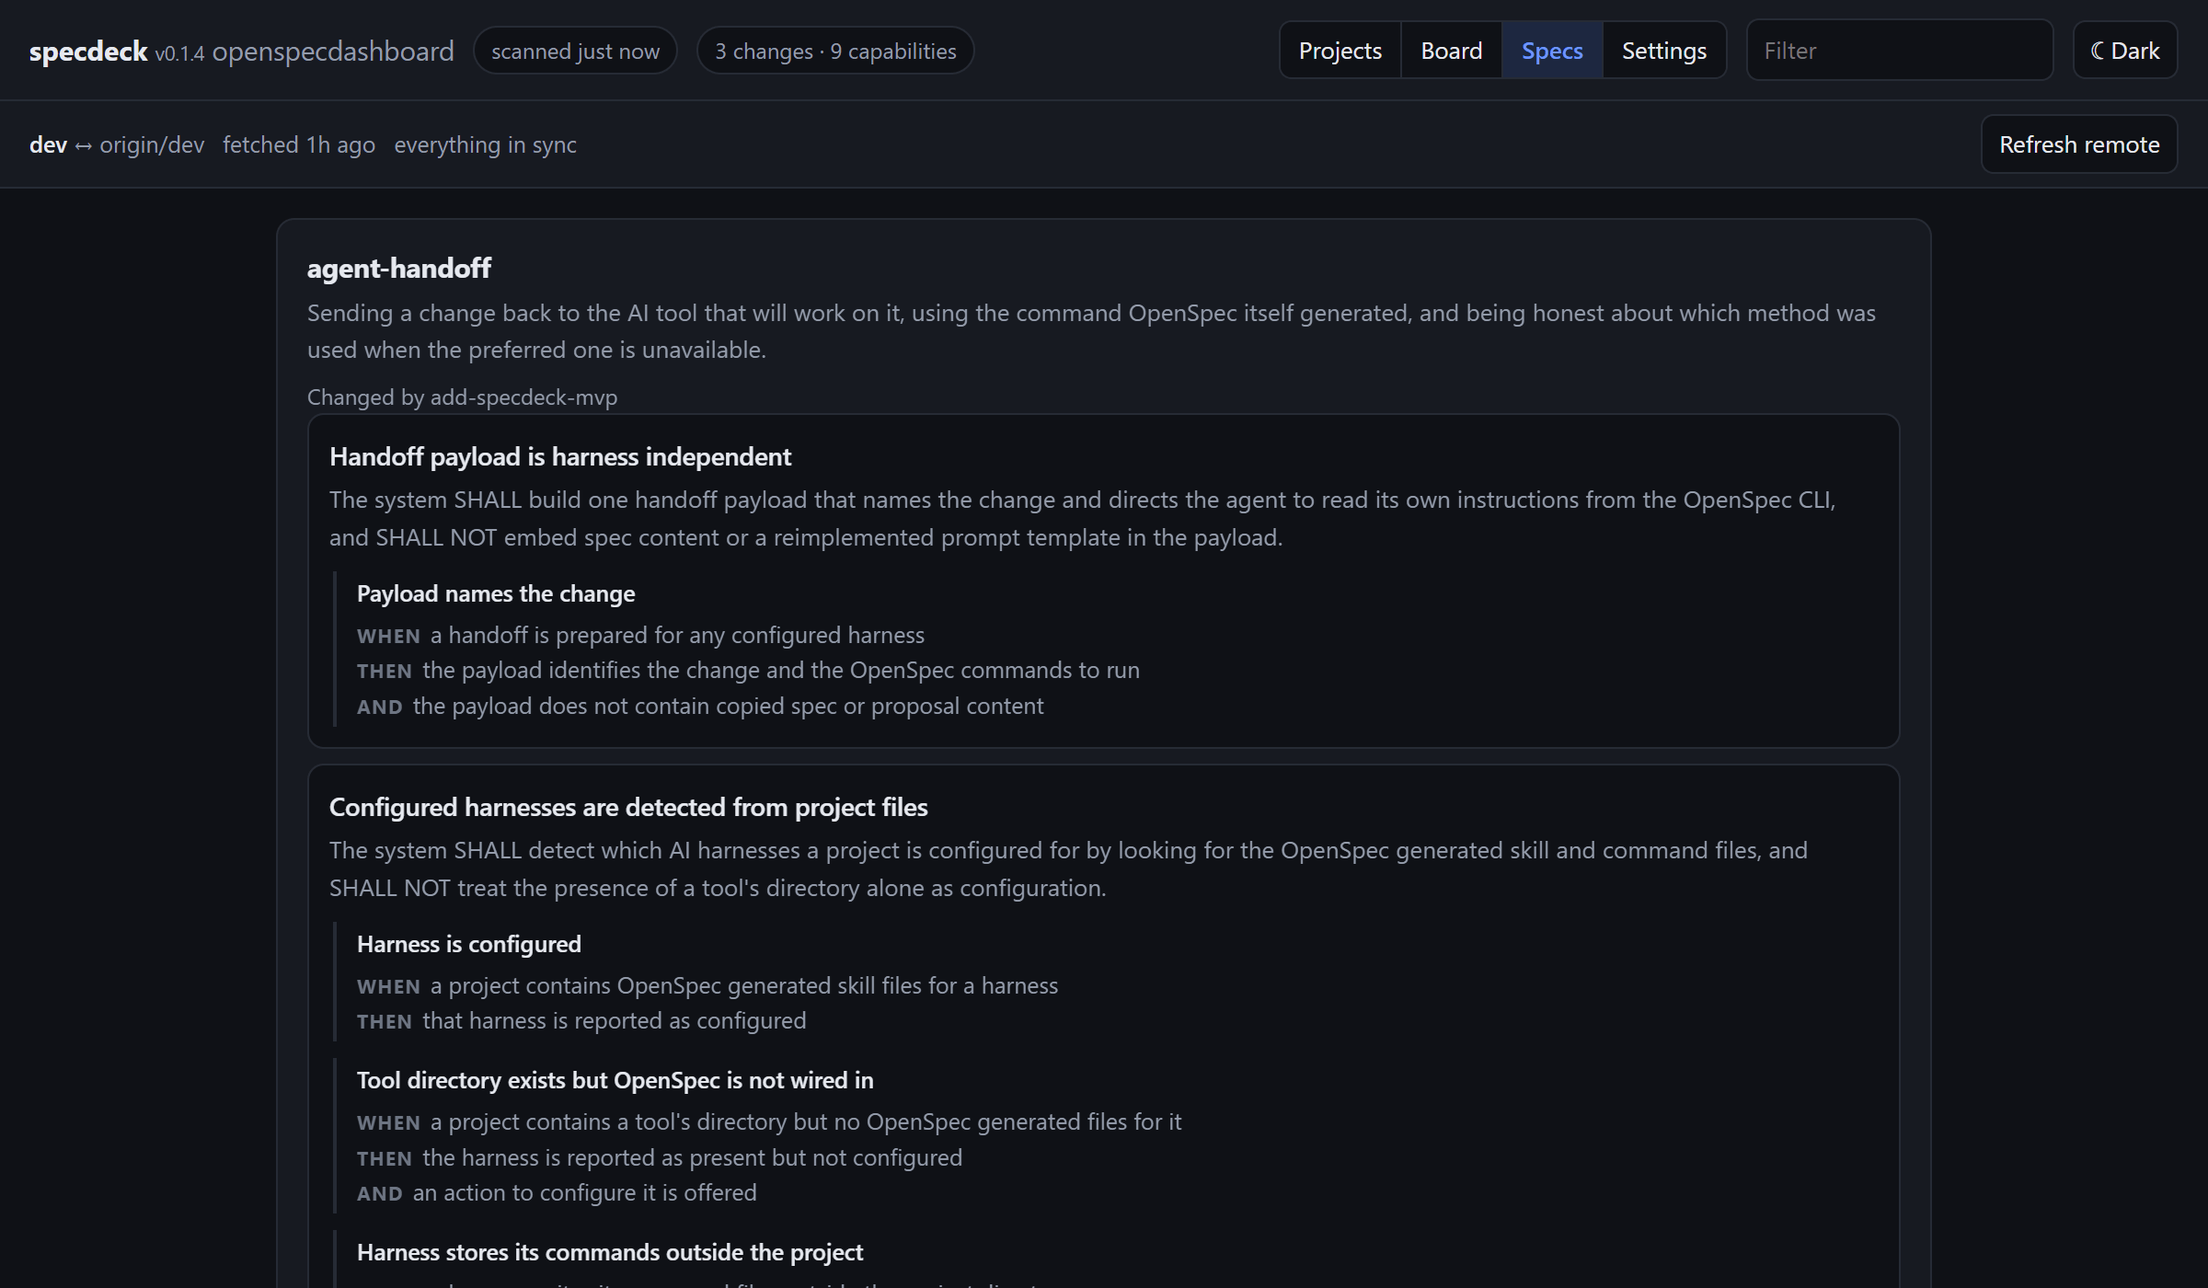
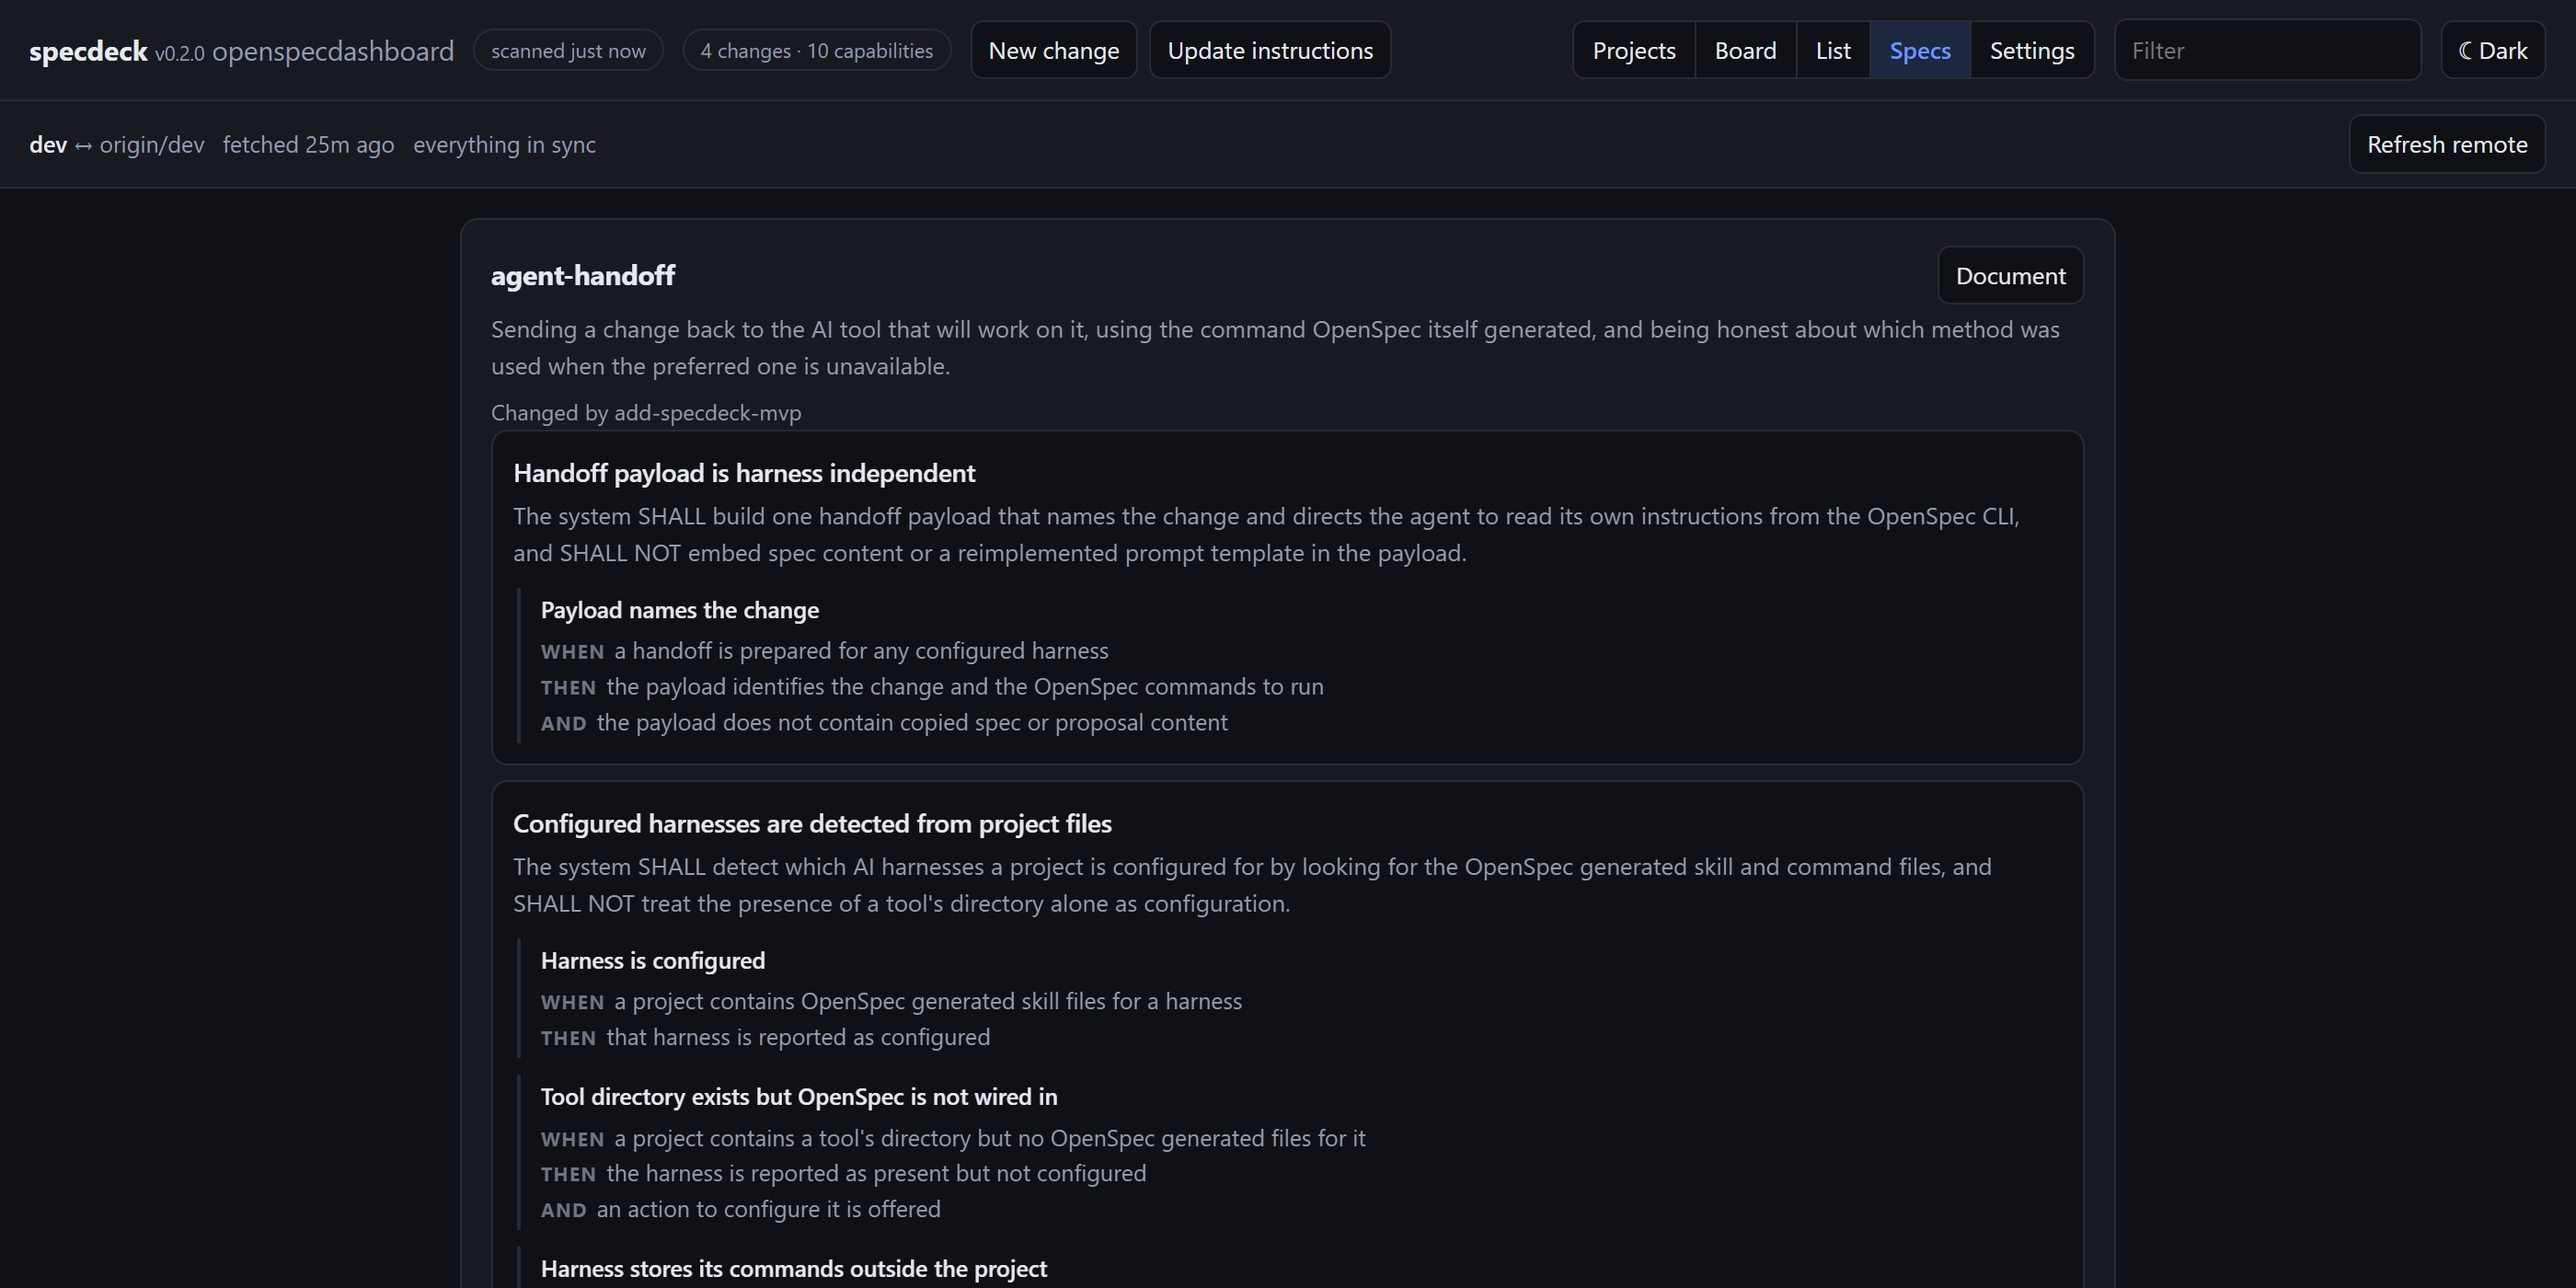
Show the review surfaces, and stop publishing whoever took the picture
The README described reading, editing, and approving without showing any of it,
and the images it did have predated the header, the list view, and everything
else this branch moved.

Four new shots: the artifact reader, the editor across the page with the change
still readable beside it, approval with one change signed off and another
lapsed after a later edit, and the cross-root list. The demo now records two
approvals so those two states can sit side by side, which is the only way that
feature reads.

The projects view is captured against a generated registry rather than the one
in your home directory. It had been publishing whoever ran the capture: their
username, the real names of their projects, and a Claude scratch path that
happened to be registered. SPECDECK_CONFIG_DIR now points at an invented
registry, which also makes the image identical for every contributor.

Bundling had broken the capture harness, which reached the client through
globals that now live inside a closure. Rather than leak the internals back
out, the client names what automation may touch on window.specdeck, so renaming
an internal variable cannot quietly break the README.

The header wrapped to a second row at 1200px once it gained the project
actions, which is the stacking this branch set out to remove. Shortened the
label and gave the two narrow shots room.

diff --git a/src/client/app.js b/src/client/app.js
@@ -1,4 +1,9 @@
-import { renderArtifactsTab, closeArtifactEditor, hasUnsavedEdit } from './artifacts.js';
+import {
+  renderArtifactsTab,
+  closeArtifactEditor,
+  hasUnsavedEdit,
+  resetEditing,
+} from './artifacts.js';
 import {
   COLUMNS,
   applyFilters,
@@ -3469,7 +3474,7 @@ function renderProjectActions() {
   };
   bar.appendChild(make);
 
-  var upd = el('button', 'icon', 'Update instruction files');
+  var upd = el('button', 'icon', 'Update instructions');
   upd.title =
     'Runs openspec update. This also rewrites OpenSpec’s own global configuration, which it infers from this project.';
   upd.onclick = function () {
@@ -3913,6 +3918,51 @@ document.addEventListener('keydown', function (e) {
 
 applyTheme(currentTheme());
 var events = new EventSource('/api/events');
+/**
+ * The surface the screenshot harness drives the interface through.
+ *
+ * The client used to be one script in the page, so `scripts/capture/` could
+ * reach `state`, `selected`, and `openPanel` as globals. Bundling put all of
+ * that inside a closure, which is the point of bundling. Rather than leak the
+ * internals back out, the few things automation genuinely needs are named here,
+ * so renaming a variable cannot silently break the screenshots.
+ */
+export const automation = {
+  /** Read-only view of what the board is currently showing. */
+  read() {
+    return { state: state, view: view, selected: selected, approvals: approvals };
+  },
+  switchView: function (next) {
+    switchView(next);
+  },
+  /** Forces a theme, so each shot can be taken in both. */
+  applyTheme: function (name) {
+    applyTheme(name);
+  },
+  loadApprovals: function () {
+    return loadApprovals();
+  },
+  /** Opens a change's detail panel on a given tab. */
+  openChange: function (name, tab) {
+    if (!state || !state.project.ok) return false;
+    var target = state.project.snapshot.changes.filter(function (c) {
+      return c.name === name;
+    })[0];
+    if (!target) return false;
+    if (tab) activeTab[target.name] = tab;
+    selected = target.name;
+    openPanel(target);
+    return true;
+  },
+  /** Clears whatever the previous shot left open, editing included. */
+  clear: function () {
+    resetEditing();
+    selected = null;
+    document.getElementById('panel').innerHTML = '';
+    document.getElementById('editor').innerHTML = '';
+  },
+};
+
 /**
  * Starts the client.
  *

diff --git a/src/client/index.js b/src/client/index.js
@@ -1,17 +1,22 @@
 import { renderMarkdown } from './markdown.js';
 import { createEditor } from './editor.js';
-import { boot } from './app.js';
+import { automation, boot } from './app.js';
 
 /**
  * The client entry point.
  *
- * The view code in `app.js` is a flat imperative script that shares everything
- * through the module scope it was written in. Rather than rewrite that to take
- * injected dependencies, the pieces that came from real libraries are hung on
- * one namespace it can reach. The alternative, importing them into `app.js`
- * directly, is fine too and is how new code should do it; this exists so the
- * split did not have to touch 1,500 lines that were working.
+ * `window.specdeck` carries two unrelated things, both deliberately:
+ *
+ * - The pieces that came from real libraries, so the flat imperative view code
+ *   in `app.js` can reach them without being rewritten to take injected
+ *   dependencies. Importing them into `app.js` directly is fine too and is how
+ *   new code should do it; this exists so the split did not have to touch 1,500
+ *   lines that were working.
+ * - The automation surface `scripts/capture/` drives the screenshots through.
+ *   The client is bundled, so its internals live in a closure and are no longer
+ *   reachable as globals. Naming what automation may touch means renaming an
+ *   internal variable cannot silently break the images in the README.
  */
-window.specdeck = { renderMarkdown, createEditor };
+window.specdeck = { renderMarkdown, createEditor, ...automation };
 
 boot();

diff --git a/src/core/read/no-writes.test.ts b/src/core/read/no-writes.test.ts
@@ -52,11 +52,21 @@ interface Snapshot {
   [relativePath: string]: string;
 }
 
-/** Records every file's path, size, and modification time. */
+/**
+ * Records every file's path, size, and modification time.
+ *
+ * `.git` is deliberately not walked. The promise being asserted is about the
+ * working tree: the files a user wrote and can see. Git maintains its own index
+ * and caches as a side effect of being asked read-only questions, and `git
+ * status` refreshing `.git/index` is git's bookkeeping rather than specdeck
+ * writing into somebody's project. Counting it made this test fail on whichever
+ * runner happened to be slow enough to catch a lock file mid-write.
+ */
 function snapshotTree(root: string): Snapshot {
   const seen: Snapshot = {};
   (function walk(dir: string): void {
     for (const entry of readdirSync(dir, { withFileTypes: true })) {
+      if (entry.name === '.git') continue;
       const full = join(dir, entry.name);
       if (entry.isDirectory()) {
         walk(full);

diff --git a/src/client/artifacts.js b/src/client/artifacts.js
@@ -37,6 +37,21 @@ export function hasUnsavedEdit(changeName) {
 }
 
 /**
+ * Forgets every open edit, discarding whatever was in them.
+ *
+ * Only for the screenshot harness, which takes each shot twice and needs the
+ * second pass to start from the same place as the first. Nothing in the
+ * interface calls this: discarding a user's text without asking is exactly what
+ * the rest of this module exists to prevent.
+ */
+export function resetEditing() {
+  for (const name of Object.keys(editing)) delete editing[name];
+  for (const name of Object.keys(drafts)) delete drafts[name];
+  for (const name of Object.keys(conflicts)) delete conflicts[name];
+  closeArtifactEditor();
+}
+
+/**
  * Renders the Files tab into `body`.
  *
  * `deps` supplies el, esc, toast, renderMarkdown, createEditor, and reopen,

diff --git a/README.md b/README.md
@@ -89,16 +89,33 @@ since the board read it, the write is refused rather than clobbering its work.
 
 ### Read every artifact, and edit it in place
 
+<picture>
+  <source media="(prefers-color-scheme: dark)" srcset="docs/media/change-files-dark.png">
+  <img alt="The detail panel showing a change's files, with the proposal rendered as a document beside the list of artifacts" src="docs/media/change-files-light.png">
+</picture>
+
 Whatever artifacts your workflow schema declares, whether that is proposal, design, specs,
 and tasks or something your own schema invented, rendered as markdown with the exact source
 one click away. Accumulated capability specs read the same way.
 
-Editing opens a real editor over the page, and saves straight back to the file. If an agent
-rewrote it while you were typing, the save is refused rather than merged, your text is kept,
-and moving past the conflict is a button you press knowingly. `openspec validate` runs on
-save and reports against the change.
+Editing takes the page rather than a column, so the file you are changing is readable while
+you change it, and saves straight back to disk.
+
+<picture>
+  <source media="(prefers-color-scheme: dark)" srcset="docs/media/editor-dark.png">
+  <img alt="The markdown editor open across the page, with the rendered change still visible in the panel on the right" src="docs/media/editor-light.png">
+</picture>
+
+If an agent rewrote the file while you were typing, the save is refused rather than merged,
+your text is kept, and moving past the conflict is a button you press knowingly.
+`openspec validate` runs on save and reports against the change.
 
 ### Approve a change, and have it mean something
+
+<picture>
+  <source media="(prefers-color-scheme: dark)" srcset="docs/media/approval-dark.png">
+  <img alt="A board with one change marked approved and another marked needs review, and the panel showing who approved it and the commit that records it" src="docs/media/approval-light.png">
+</picture>
 
 Approving records a commit carrying an `Approved-by:` trailer. The state is then read back
 out of git, so it survives a clone and appears for a teammate the moment they pull. Edit any
@@ -109,6 +126,11 @@ Approving commits only that change's directory, and leaves anything you had stag
 as you left it.
 
 ### A list, when the board is the wrong shape
+
+<picture>
+  <source media="(prefers-color-scheme: dark)" srcset="docs/media/list-dark.png">
+  <img alt="A sortable table of changes drawn from three different projects, with lane, task progress, approval state and dates" src="docs/media/list-light.png">
+</picture>
 
 Every change across every root you have registered, sortable by name, lane, task progress,
 approval, creation date, and last activity, and filterable by lane, root, initiative, and

diff --git a/CONTRIBUTING.md b/CONTRIBUTING.md
@@ -140,16 +140,38 @@ The images in the README are generated rather than captured by hand, so an inter
 does not quietly leave them wrong:
 
 ```bash
+npm run build
 node scripts/capture/demo.mjs ../specdeck-demo
+node scripts/capture/registry.mjs ../specdeck-demo ../specdeck-demo/.specdeck-config
+
+export SPECDECK_CONFIG_DIR=../specdeck-demo/.specdeck-config
 node dist/cli/index.js ../specdeck-demo/orbit --port 7788 --no-open
+
 node scripts/capture/shots.mjs http://127.0.0.1:7788 docs/media
 node scripts/capture/live.mjs http://127.0.0.1:7788 ../specdeck-demo/orbit docs/media/live-update.gif
+```
+
+`SPECDECK_CONFIG_DIR` is not optional. The projects view reads specdeck's own registry, so
+capturing against your real one publishes your username, the names of your projects, and
+wherever they sit on disk. Pointing it at the generated registry keeps the image the same
+for everybody and free of whoever ran it.
+
+The self-specs image is the specs view captured against this repository rather than the
+demo, which is what the last two arguments are for:
+
+```bash
+node dist/cli/index.js . --port 7789 --no-open
+node scripts/capture/shots.mjs http://127.0.0.1:7789 docs/media specs self-specs
 ```
 
 The demo projects are invented. Captures come from a headless browser rather than a
 desktop, so nothing outside the application can end up in an image. ffmpeg is used to
 compress them and to build the recording; without it the captures still work and are just
 larger.
+
+The screenshots drive the interface through `window.specdeck`, which the client exposes for
+this. The client is bundled, so its internals are inside a closure; naming what automation
+may touch means renaming an internal variable cannot silently break the images.
 
 ## Pull requests
 
